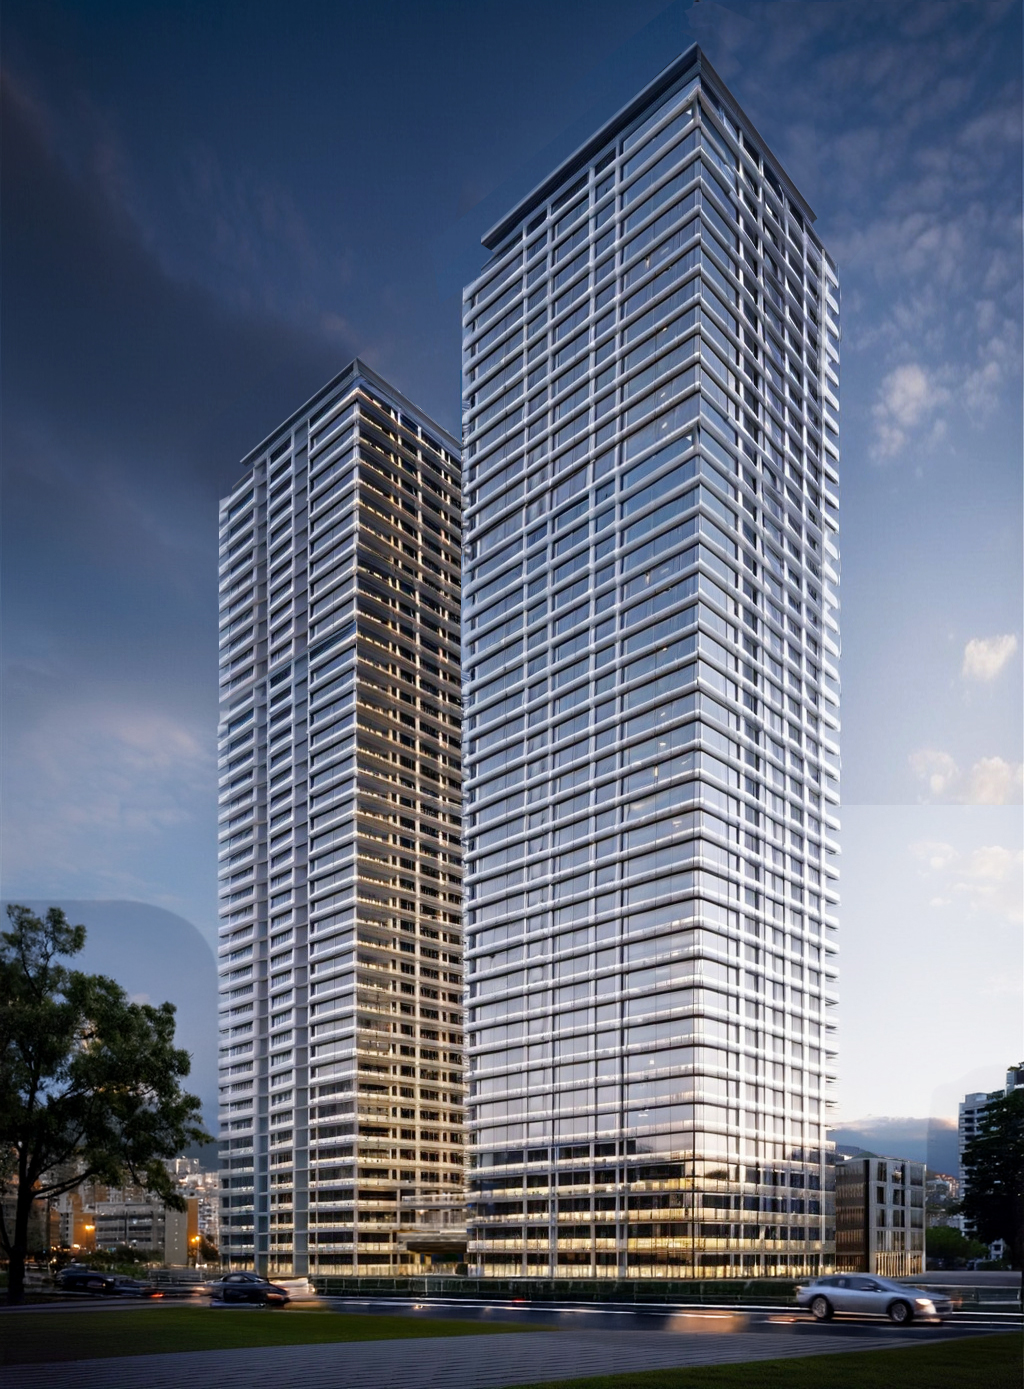
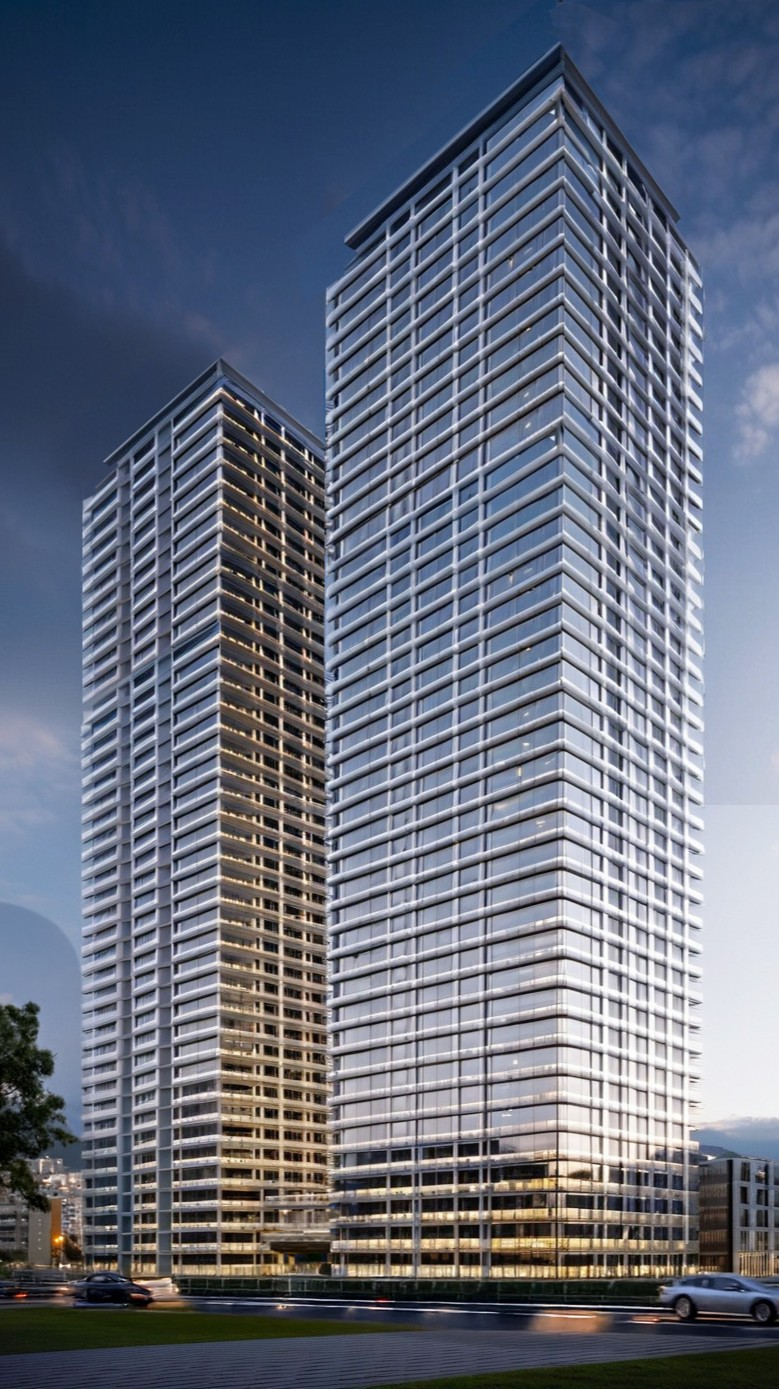
all pages tablet

diff --git a/src/projects.css b/src/projects.css
@@ -40,10 +40,10 @@ header {
 .tohome {
   color: #20252D !important;
   text-decoration: underline !important;
-  font-size: 1.5rem;
+  font-size: clamp(0.5rem,1.3vw,3rem);
   margin: 0;
-  margin-left: 30rem;
   display: inline-block;
+  text-align: end;
 
 }
 
@@ -118,6 +118,10 @@ li a{
   border-radius: 0;
 
 }
+#york{
+  object-fit: cover;
+    height: 60vw;
+}
 
 /* -------------------- TEXT -------------------- */
 .card-left span,
@@ -135,15 +139,7 @@ li a{
   justify-content: space-between;
   height: 44.5vw !important;
 }
-.tohome2 {
-  color: #20252D !important;
-  text-decoration: underline !important;
-  font-size: 1.5rem;
-  margin: 0;
-  margin-left: 30rem;
-  display: inline-block;
-  margin-bottom: 30rem;
-}
+
 .card-left span{
     align-items: flex-end;
 }
@@ -162,7 +158,7 @@ li a{
 .card-left h2,
 .card-right h2,
 .card-right1 h2 {
-  font-size: 3rem;
+  font-size: clamp(1rem,3vw,6rem);
   text-transform: uppercase;
   font-family: "Red Hat Display mid";
     margin: 0;
@@ -254,11 +250,6 @@ a {
     align-items: center;
   }
 
-  .card-left img,
-  .card-right img {
-    width: 160px;
-    height: 160px;
-  }
 }
 
 /* -------------------- FONTS -------------------- */

diff --git a/src/team.css b/src/team.css
@@ -33,21 +33,20 @@ body {
 .tohome2 {
   color: #20252D;
   text-decoration: underline;
-  font-size: 1.5rem;
+  font-size:  clamp(0.5rem,1.3vw,3rem);;
   margin: 0;
-  margin-left: 30rem;
   display: inline-block;
-  margin-bottom: 30rem;
+  text-align: end;
+  width: 100%;
+
 }
 .underline{
   text-decoration: underline;
   color:#fff ;
 }
 .img-overlay {
-  position: absolute;
-  left: 39vw;
-top: 82vh;
-  color: #fff;
+
+  color: #20252D;
   text-align: start;
   z-index: 2;
   pointer-events: none; /* makes the video clickable */
@@ -62,6 +61,8 @@ top: 82vh;
     margin-bottom: 2rem;
     font-size: 1.2rem;
     gap: 3rem;
+    height: 47.5vw;
+    width: 100%;
 }
 .holding{
   display: flex;
@@ -105,7 +106,8 @@ top: 82vh;
   max-width: 10vw;
 }
 .team_yap img{
-    max-width: 40vw;
+    width: 40vw;
+    height: 47.5vw;
 }
 .row{
   padding-left: 1rem;
@@ -124,4 +126,7 @@ top: 82vh;
 .group1 h2,.group2 h2{
     padding-left: 1rem;
   text-transform: uppercase;
+}
+.p1{
+  font-size: clamp(0.5rem,1.5vw,2.5rem);
 }

diff --git a/src/App.css b/src/App.css
@@ -402,6 +402,7 @@ padding: 20px;
 }
 .about_uss .title h2{
   margin: 0;
+  font-size: clamp(2rem,5vw,10rem);
 }
 
 .about_uss .yap {
@@ -426,7 +427,7 @@ padding: 20px;
 .about_uss .yap>span>p{
   margin-top: 0;
     margin-bottom: 0;
-    font-size: 1.3rem;
+    font-size: clamp(0.5rem,1.5vw,2.5rem);
 
 }
 
@@ -435,7 +436,7 @@ padding: 20px;
   font-family: "Red Hat Display";
   text-align: justify;
   margin: 0;
-      font-size: 1.3rem;
+      font-size:clamp(0.5rem,1.5vw,2.5rem);;
 }
 
 /* =========================
@@ -463,7 +464,7 @@ padding: 20px;
   padding: 0;
   margin: 0;
   font-size: clamp(0.5rem, 1.5vw, 6rem);
-  margin: 6rem;
+  margin:clamp(0.3rem, 1.5vw, 1.5rem);
   margin-top: 1rem;
   font-family: "Red Hat Display";
 }

diff --git a/src/pages/ProjectsPage.jsx b/src/pages/ProjectsPage.jsx
@@ -165,7 +165,7 @@ Tower</h2>
               </span>
             </div>
                         <div className="card-right">
-              <img className="animate2" src="York-Towers.webp" alt="Huron Church CRU Units" />
+              <img id="york"className="animate2" src="York-Towers.webp" alt="Huron Church CRU Units" />
               <span>
                 <h2>Downtown Skyline</h2>
                 <h4>london, ON</h4>
